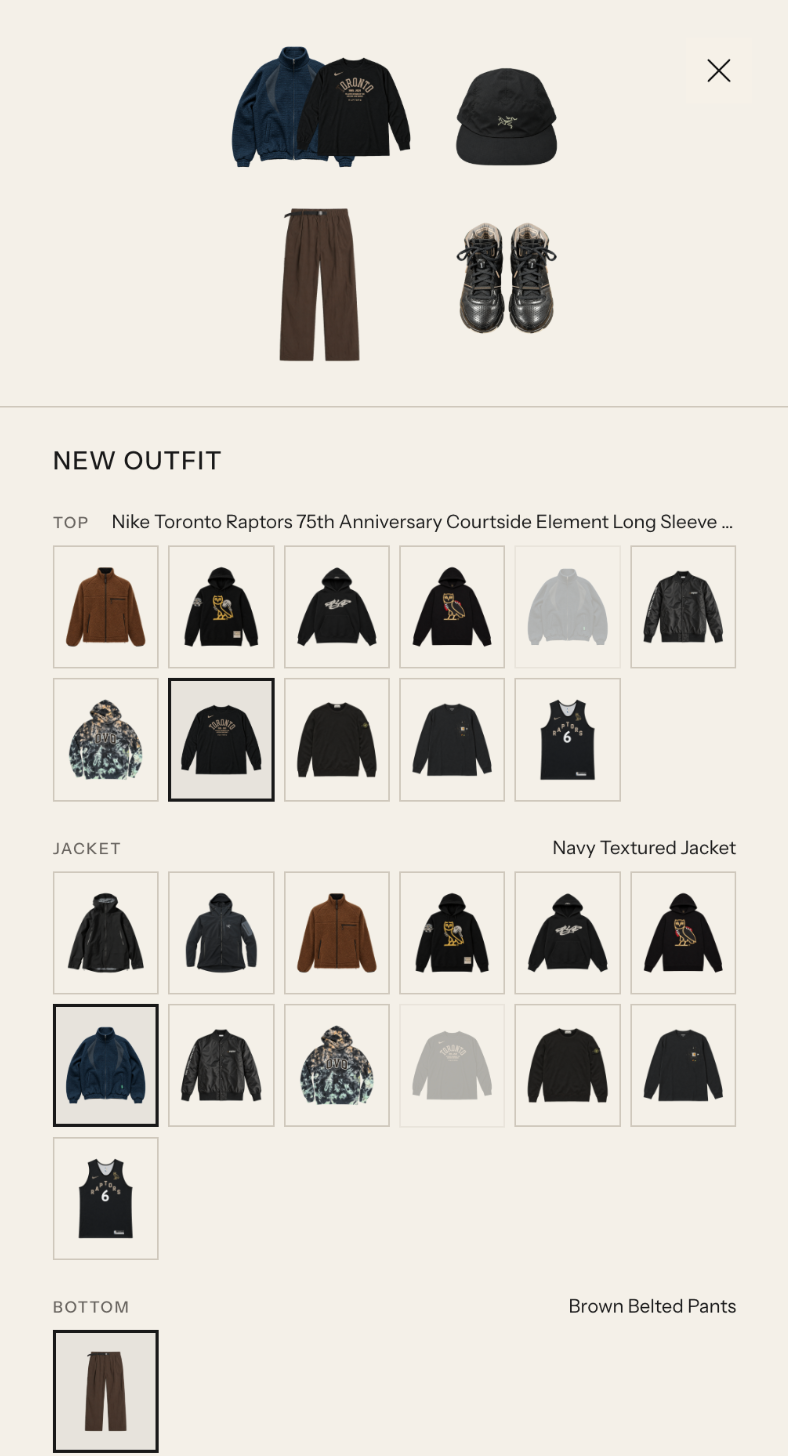
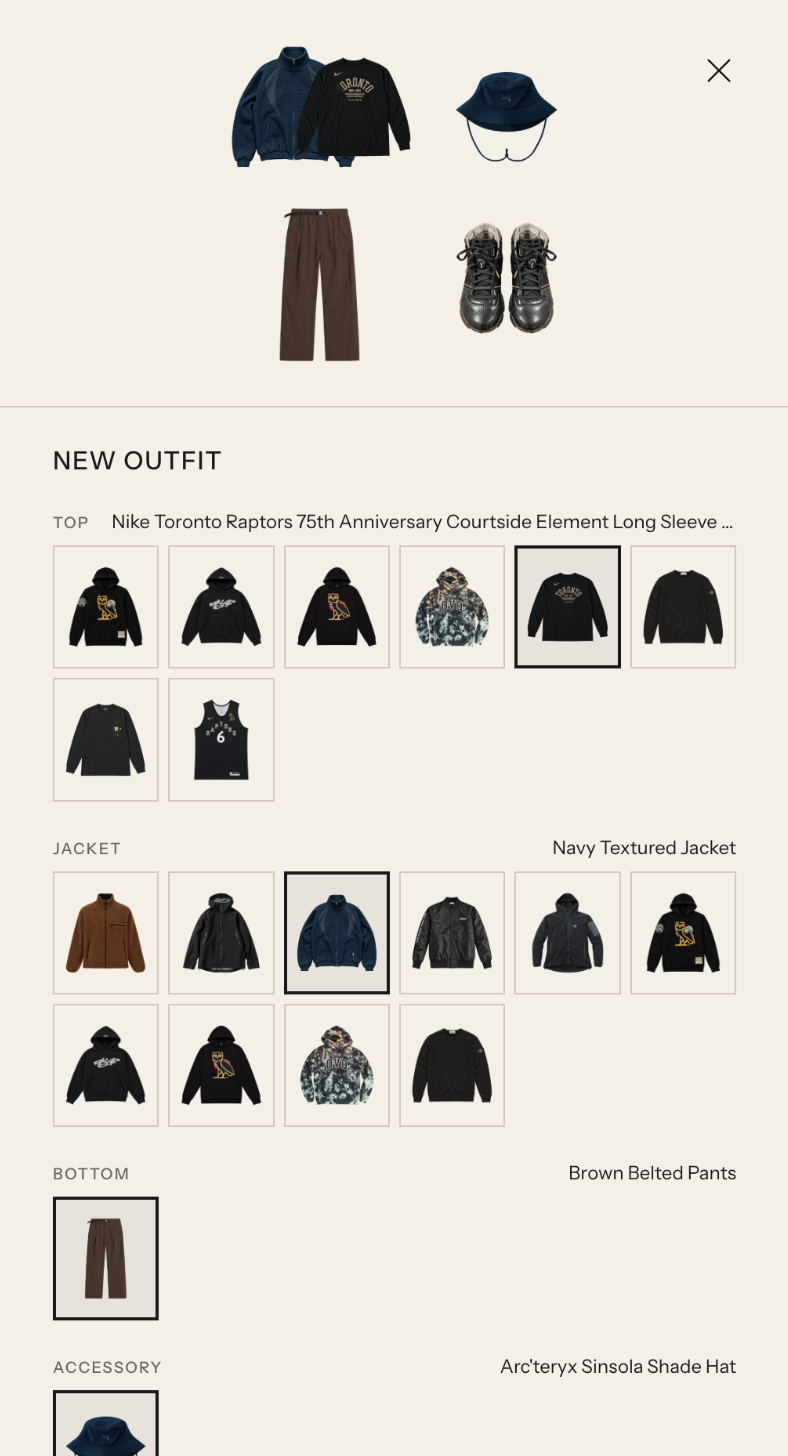
Keep T-shirts out of the jacket slot (#22)
The jacket slot took every top so a hoodie could layer over a tee, which
also let T-shirts and jerseys in. The top slot took jackets that are
filed under Tops. The slot rules now go by what a piece is: the jacket
slot takes jackets and the tops that layer, the top slot takes
everything that is not a jacket, and the server refuses the rest.

Jackets ended up under Tops because the detection prompt listed the
category ids without saying what they mean. It now does, and two
jackets that were filed as tops come back as jackets.

diff --git a/src/outfits.jsx b/src/outfits.jsx
@@ -1,6 +1,6 @@
 import { useEffect, useMemo, useRef, useState } from "react";
 import { Check, Plus, SpinnerGap, Trash, X } from "@phosphor-icons/react";
-import { MIN_OUTFIT_PIECES, OUTFIT_SLOTS, outfitKey } from "../shared/outfit-slots.mjs";
+import { MIN_OUTFIT_PIECES, OUTFIT_SLOTS, isOuterwear, outfitKey } from "../shared/outfit-slots.mjs";
 import { SpinHero, TurnaroundPanel } from "./spin.jsx";
 
 // Slot id to the piece in it. A piece that has left the wardrobe drops out.
@@ -122,7 +122,7 @@ export function OutfitBuilder({ items, outfits, onCreate, onOpen, onClose }) {
     });
   };
 
-  // The jacket slot offers tops too, and one piece cannot be worn twice.
+  // A hoodie fits the top slot and the jacket slot, and one piece cannot be worn twice.
   const wornElsewhere = (slotId, itemId) => Object.entries(selection).some(([otherSlot, id]) => otherSlot !== slotId && id === itemId);
 
   const submit = async (event) => {
@@ -159,8 +159,8 @@ export function OutfitBuilder({ items, outfits, onCreate, onOpen, onClose }) {
         <h2 className="outfit-heading">New outfit</h2>
         {OUTFIT_SLOTS.map((slot) => {
           const candidates = items
-            .filter((item) => slot.parts.includes(item.part))
-            .sort((a, b) => slot.parts.indexOf(a.part) - slot.parts.indexOf(b.part) || a.id.localeCompare(b.id));
+            .filter(slot.fits)
+            .sort((a, b) => Number(isOuterwear(b)) - Number(isOuterwear(a)) || a.id.localeCompare(b.id));
           return (
             <div key={slot.id} className="outfit-slot" role="group" aria-label={slot.label}>
               <div className="outfit-slot__head">

diff --git a/README.md b/README.md
@@ -53,7 +53,7 @@ Generation runs on the server. Closing the import panel, or the tab, does not st
 
 ## Outfits
 
-Open Outfits in the left rail and choose New outfit. Each slot takes one piece: top, jacket, bottom, accessory and shoes. The jacket slot also offers your tops, so a hoodie or an overshirt can go over a tee.
+Open Outfits in the left rail and choose New outfit. Each slot takes one piece: top, jacket, bottom, accessory and shoes. The jacket slot takes jackets and the tops that layer, so a hoodie or an overshirt can go over a tee. A T-shirt only goes in the top slot, and a jacket only in the jacket slot, whichever category it is filed under.
 
 - The preview lays the cutouts out as you pick, so trying combinations is instant and free.
 - Try it on generates one 360 spin of you wearing every piece you picked. It takes about a minute and keeps running on the server if you close the tab.
